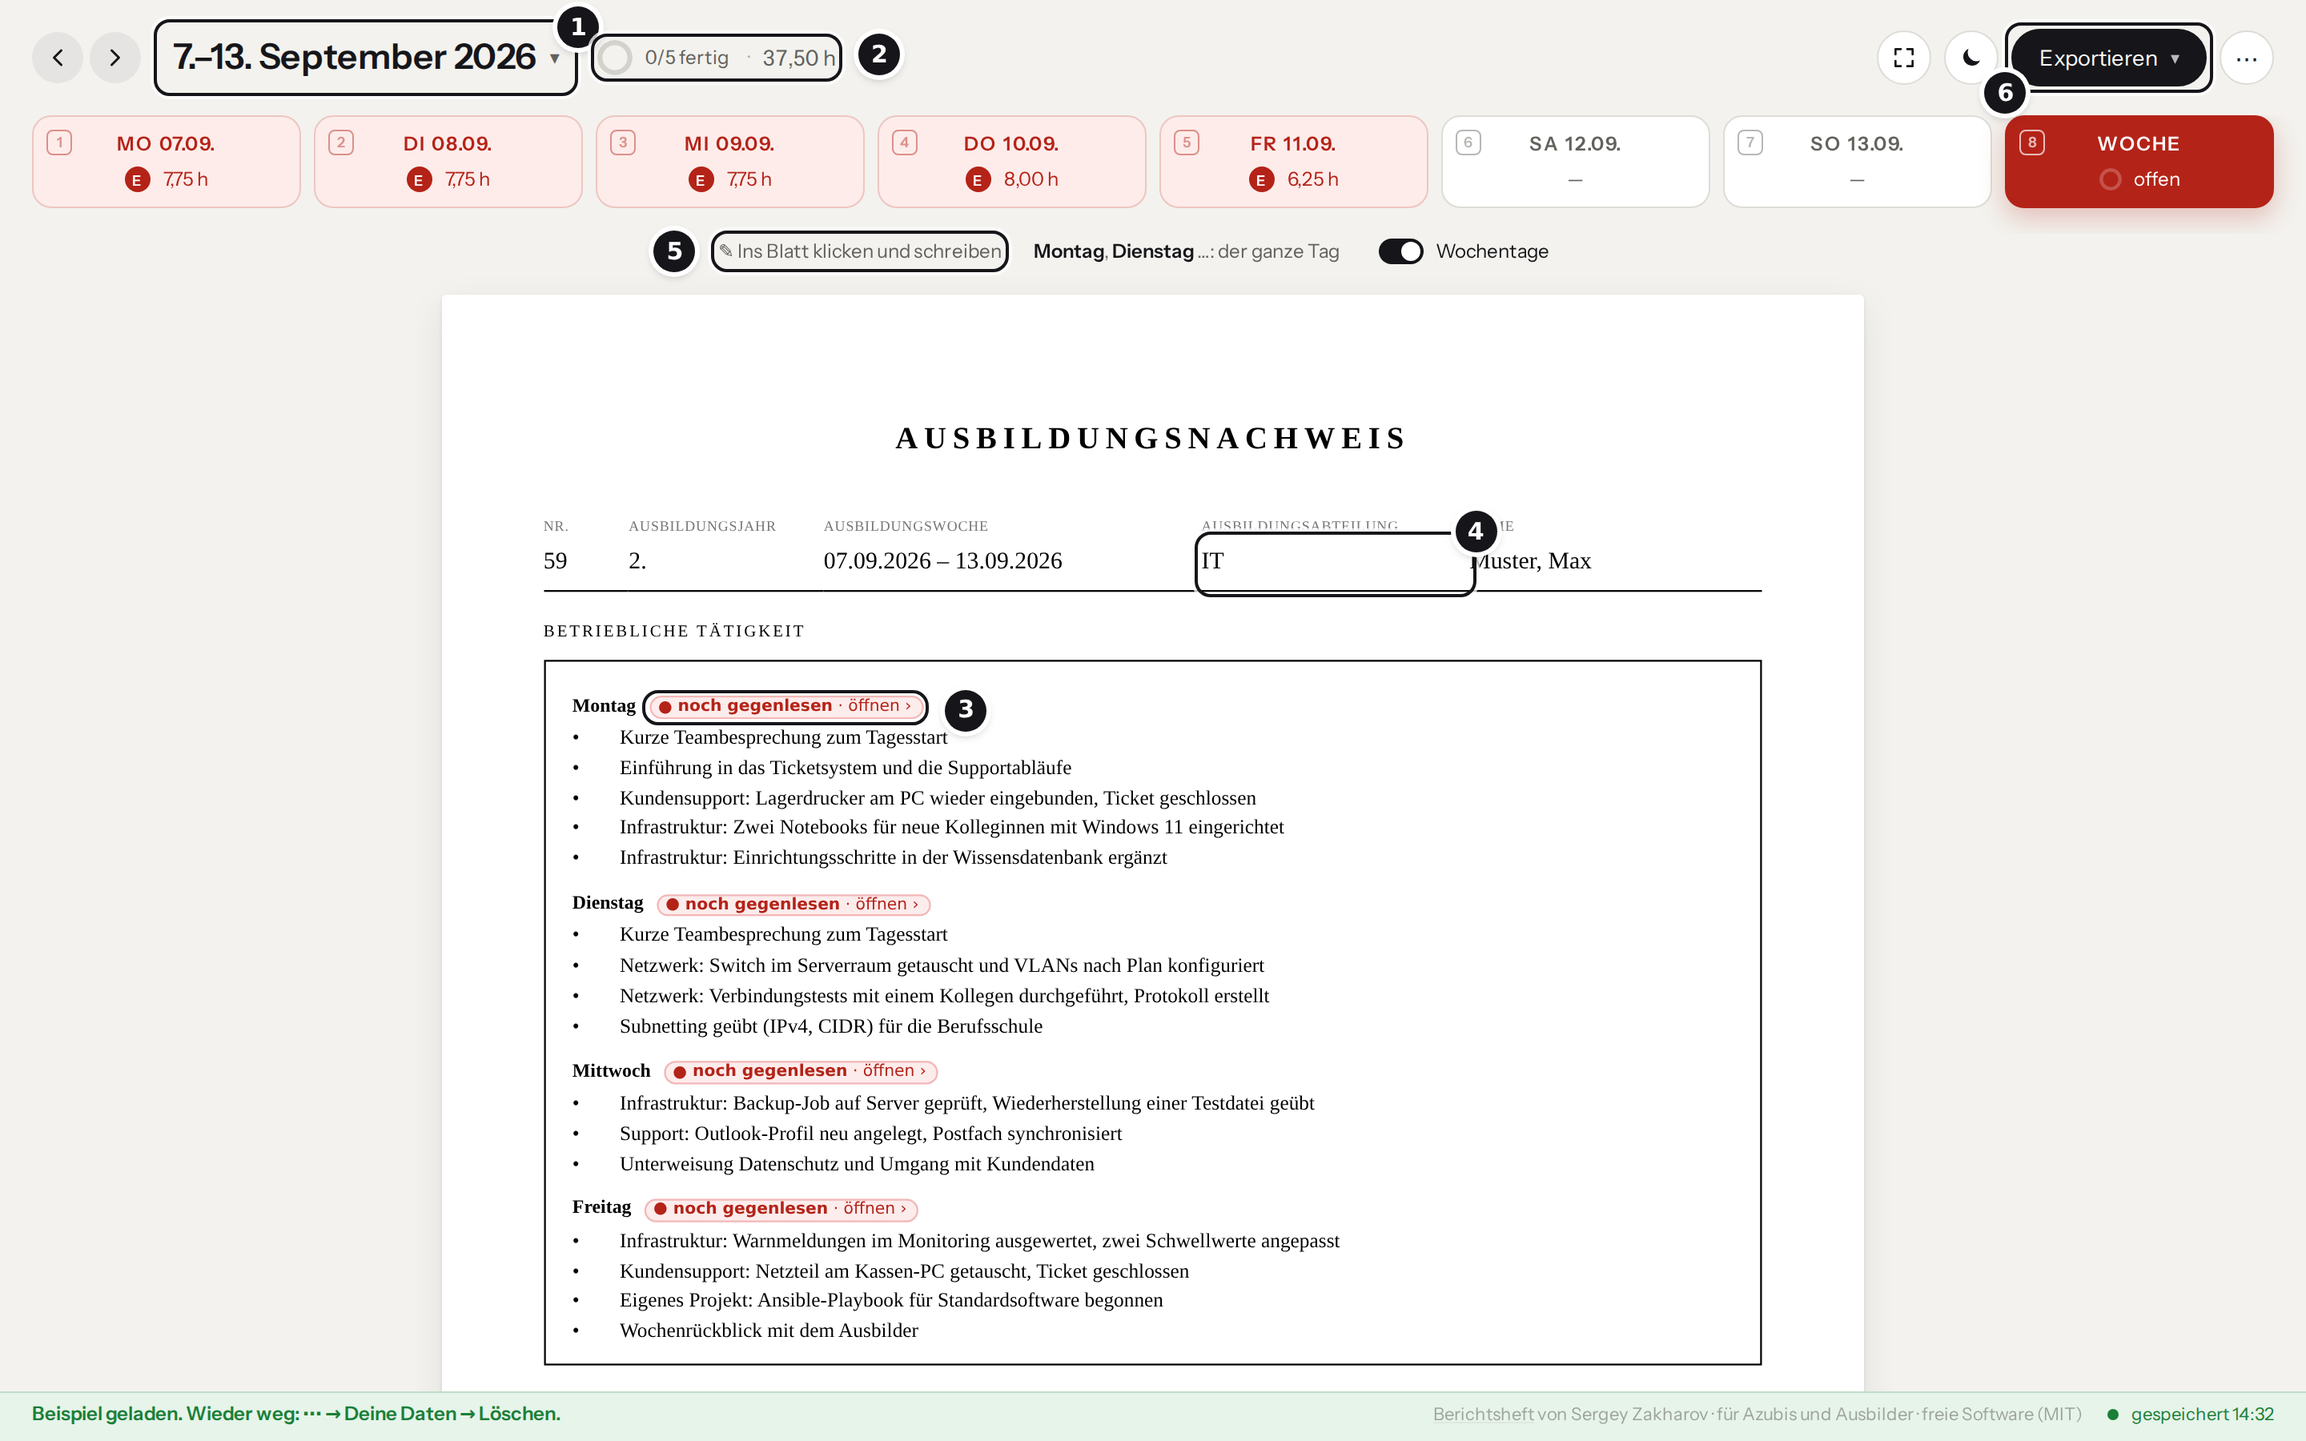
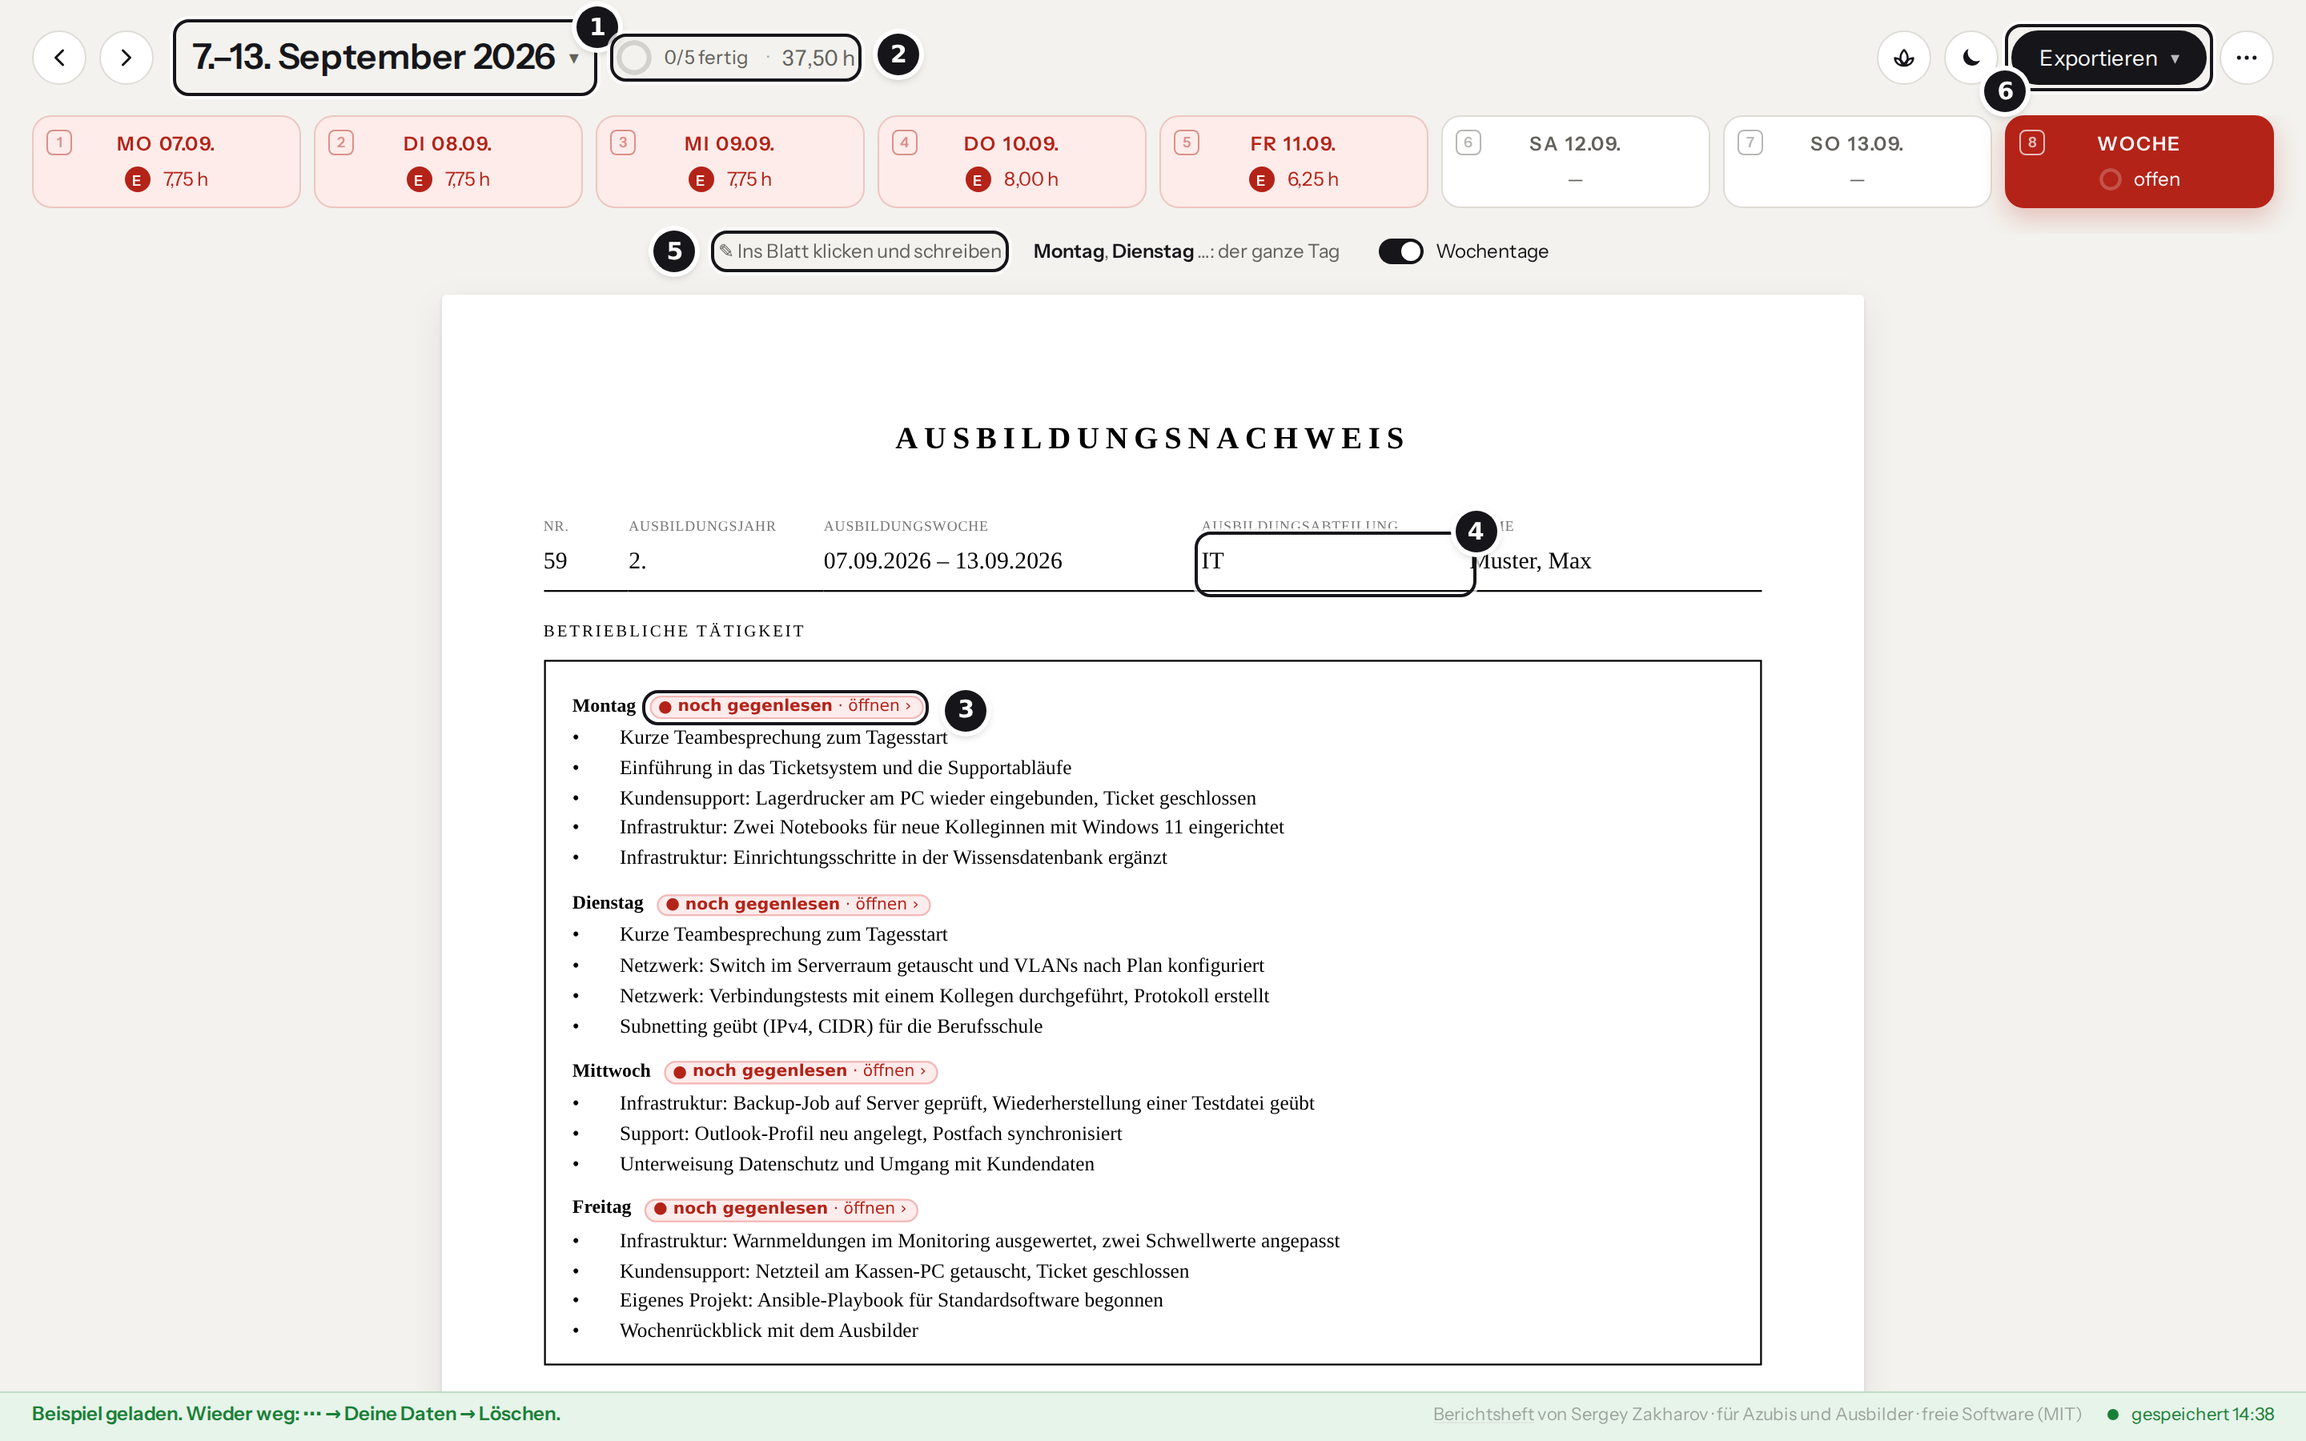
Kopfleiste aus einem Guss, Zen-Knopf mit Lotusblüte
Alle Knöpfe oben sind 34 px hoch, weiß mit Rand und 8 px auseinander:
die Pfeile wie die Knöpfe rechts (vorher grau mit 32 px), „Exportieren“
nicht mehr 36 px hoch, das Menü ⋯ als Zeichnung statt Schriftzeichen. Am
Handy stehen beide Zeilen bündig übereinander.

Das Zen-Symbol ist eine Lotusblüte statt der vier Ecken, die wie Vollbild
aussahen; im Modus ist der Knopf ausgefüllt (aria-pressed).

Changed region(s): [[0.0, 0.0, 0.4062, 0.0622], [0.875, 0.0, 0.9375, 0.0311]]

diff --git a/src/css/leiste.css b/src/css/leiste.css
@@ -15,10 +15,17 @@ body.ohnewoche .leiste::before { content: "Berichtsheft"; font-size: var(--schri
 /* Pfeil am Exportknopf: Er öffnet ein Menü. */
 #btn-export { display: inline-flex; align-items: center; gap: var(--luft-2); }
 #btn-export::after { content: "\25BE"; font-size: var(--schrift-fein); opacity: .7; }
-#btn-mehr { width: 34px; height: 34px; font-size: var(--schrift-gross); }
+/* Alle Knöpfe der Kopfleiste aus einem Guss: 34 px hoch, weiße Fläche mit Rand, 8 px Abstand, links
+   die Pfeile wie rechts die runden Knöpfe. Vorher waren die Pfeile graue Flächen mit 32 px, die
+   anderen umrandet mit 34 px, „Exportieren“ 36 px hoch, und das Menü war ein Schriftzeichen. */
+.leiste .rundknopf { width: 34px; height: 34px; }
+.leiste .rundknopf svg { width: 18px; height: 18px; }
+#btn-mehr svg { fill: currentColor; }
+.leiste #btn-export { height: 34px; padding-top: 0; padding-bottom: 0; }
 /* Hell/dunkel (farbe.js): Mond im Hellen, Sonne im Dunkeln – gezeigt wird, wohin der Knopf schaltet. */
-.farbknopf { width: 34px; height: 34px; color: var(--text); }
-.farbknopf svg { width: 16px; height: 16px; }
+.farbknopf { color: var(--text); }
+/* Der Mond ist voll, die anderen Zeichen Linien: kleiner gesetzt wirkt er gleich groß. */
+.leiste .farbknopf svg { width: 16px; height: 16px; }
 .farbknopf .sonne { display: none; }
 /* Beim Wechsel keine Übergänge einzelner Elemente (farbeOhneUebergaenge() in farbe.js), und die
    Kreisblende statt der eingebauten Überblendung: Beide Bilder liegen fest übereinander, nur das
@@ -35,10 +42,10 @@ body.ohnewoche .leiste::before { content: "Berichtsheft"; font-size: var(--schri
 /* ---------- Zen-Modus (zen.js) ----------
    Übrig bleiben die Tageskarte oder das Blatt und dieser Knopf, oben rechts über allem. Nicht
    ausgeblendet wird eine Warnung in der Fußleiste: Die muss man sehen. */
-.zenknopf { width: 34px; height: 34px; }
-.zenknopf svg { width: 16px; height: 16px; fill: none; stroke: currentColor; stroke-width: 2; stroke-linecap: round; stroke-linejoin: round; }
-.zenknopf .zen-aus, body.zen .zenknopf .zen-an { display: none; }
-body.zen .zenknopf .zen-aus { display: block; }
+/* Eine Lotusblüte; im Modus ist der Knopf ausgefüllt wie ein gedrückter Schalter. */
+.zenknopf svg { fill: none; stroke: currentColor; stroke-width: 1.7; stroke-linejoin: round; }
+.zenknopf[aria-pressed="true"] { background: var(--text); border-color: var(--text); color: var(--flaeche); }
+.zenknopf[aria-pressed="true"]:hover:not(:disabled) { background: var(--voll-hover); border-color: var(--voll-hover); }
 body.ohnewoche .zenknopf { display: none; }
 body.zen .leiste {
   position: fixed; top: var(--luft-4); right: var(--luft-5); z-index: 30;
@@ -77,8 +84,8 @@ body.zen .tagpanel.frei { width: 100%; max-width: 880px; margin: 0 auto; }
 }
 
 /* ---------- Wochenbalken: Blättern, Woche, Stand ----------
-   Am Rechner ist die Woche der Titel der Seite: groß und ohne Rahmen, davor die Pfeile als leise
-   Kreise, dahinter der Stand in Grau. Vorher standen vier umrandete Formen nebeneinander, und die
+   Am Rechner ist die Woche der Titel der Seite: groß und ohne Rahmen, davor die Pfeile in denselben
+   runden Knöpfen wie rechts die Aktionen, dahinter der Stand in Grau. Vorher standen vier umrandete Formen nebeneinander, und die
    Summe sah aus wie ein Knopf. Am Handy und beim Ausbilder bleibt die Woche ein Knopf (handy.css). */
 .wochenbalken { flex: 0 1 auto; min-width: 0; display: flex; align-items: center; }
 .wochenschalter { display: flex; align-items: center; gap: var(--luft-1); flex: 1 1 auto; min-width: 0; }
@@ -86,6 +93,10 @@ body.zen .tagpanel.frei { width: 100%; max-width: 880px; margin: 0 auto; }
    Pfeile als Knöpfe erkennbar sind, ohne sich vorzudrängen. */
 .wochenschalter .rundknopf, .monatszeile .rundknopf { width: 32px; height: 32px; border: none; background: var(--hauch); }
 .wochenschalter .rundknopf:hover:not(:disabled), .monatszeile .rundknopf:hover:not(:disabled) { background: var(--band); }
+/* In der Kopfleiste wie die Knöpfe rechts (oben); die Fläche bleibt dem Kalender und dem Ausbilder. */
+.leiste .wochenschalter { gap: var(--luft-2); }
+.leiste .wochenschalter .rundknopf { width: 34px; height: 34px; border: 1px solid var(--linie); background: var(--flaeche); }
+.leiste .wochenschalter .rundknopf:hover:not(:disabled) { background: var(--band); border-color: var(--linie-fest); }
 .wochenschalter .rundknopf svg, .monatszeile .rundknopf svg {
   width: 18px; height: 18px; fill: none; stroke: currentColor; stroke-width: 2;
   stroke-linecap: round; stroke-linejoin: round;

diff --git a/src/index.html b/src/index.html
@@ -34,10 +34,9 @@
   <div class="schub">
     <!-- Nur mit Berichtsheft-Server: Anmelden bzw. angemeldete Person (src/js/konto/konto.js). -->
     <div class="konto" id="konto" hidden></div>
-    <!-- Zen-Modus (zen.js): nur der Arbeitsbereich. Im Modus bleibt allein dieser Knopf oben rechts. -->
+    <!-- Zen-Modus (zen.js): nur der Arbeitsbereich. Im Modus bleibt allein dieser Knopf oben rechts, ausgefüllt. -->
     <button type="button" class="rundknopf zenknopf" id="btn-zen" aria-label="Zen-Modus" aria-pressed="false" title="Zen-Modus: nur schreiben">
-      <svg class="zen-an" viewBox="0 0 24 24" aria-hidden="true"><path d="M4 9V4h5M15 4h5v5M20 15v5h-5M9 20H4v-5"/></svg>
-      <svg class="zen-aus" viewBox="0 0 24 24" aria-hidden="true"><path d="M9 4v5H4M20 9h-5V4M15 20v-5h5M4 15h5v5"/></svg>
+      <svg viewBox="0 0 24 24" aria-hidden="true"><g transform="translate(0 1)"><path d="M12 4.6c2 1.9 3 4.2 3 6.9s-1 4.6-3 6.1c-2-1.5-3-3.4-3-6.1s1-5 3-6.9z"/><path d="M12 17.6c-.7-2.9-3.4-6-7.6-6.2.3 3.8 3.3 6.2 7.6 6.2zM12 17.6c.7-2.9 3.4-6 7.6-6.2-.3 3.8-3.3 6.2-7.6 6.2z"/></g></svg>
     </button>
     <!-- Hell oder dunkel (farbe.js). Gezeigt wird, wohin der Knopf schaltet: Mond im Hellen, Sonne im Dunkeln. -->
     <button type="button" class="rundknopf farbknopf" id="btn-farbe" aria-label="Dunkler Modus" aria-pressed="false">
@@ -58,7 +57,7 @@
       </div>
     </div>
     <div class="menuehalter">
-      <button type="button" class="rundknopf" id="btn-mehr" aria-label="Menü" aria-haspopup="true" aria-expanded="false">⋯</button>
+      <button type="button" class="rundknopf" id="btn-mehr" aria-label="Menü" aria-haspopup="true" aria-expanded="false"><svg viewBox="0 0 24 24" aria-hidden="true"><circle cx="5.5" cy="12" r="1.7"/><circle cx="12" cy="12" r="1.7"/><circle cx="18.5" cy="12" r="1.7"/></svg></button>
       <!-- Nach Zweck gruppiert: dein Heft, Daten hinein, Sicherung, Hilfe. -->
       <div class="menue" id="menue-mehr" hidden role="menu">
         <button type="button" role="menuitem" id="btn-stamm">Deine Daten</button>

diff --git a/src/css/handy.css b/src/css/handy.css
@@ -26,19 +26,17 @@
   .wochensumme { order: 1; flex: 1 1 auto; min-width: 0; justify-content: space-between; }
   .leiste .schub { order: 2; margin-left: auto; gap: var(--luft-2); }
   .wochenbalken { order: 3; flex: 1 1 100%; }
-  .leiste .schub .knopf { min-width: 0; padding: var(--luft-2) var(--luft-3); font-size: var(--schrift-klein); }
+  .leiste .schub .knopf { min-width: 0; padding: 0 var(--luft-3); font-size: var(--schrift-klein); }
   /* Fast deckend: Über den roten Tagesreitern war das Glas sonst kaum lesbar. */
   .menue { min-width: 210px; background: var(--menue); }
   .menue button { padding: var(--luft-3); font-size: var(--schrift-text); }
 
   .wochenschalter { gap: var(--luft-2); }
-  .wochenschalter .rundknopf { width: 34px; height: 34px; }
   /* Im Quelltext stehen beide Pfeile vor der Woche (für den Titel am Rechner); hier ‹ Woche ›. */
   .wochenschalter #wochenlabel { order: 1; }
   .wochenschalter #woche-vor { order: 2; }
   .wochenknopf { flex: 1 1 auto; padding: 0 var(--luft-3); height: 34px; line-height: 32px; font-size: var(--schrift-klein); }
   .wochensumme { height: 34px; padding: 0 var(--luft-3) 0 var(--luft-2); gap: var(--luft-2); font-size: var(--schrift-klein); }
-  .leiste .schub .farbknopf { width: 34px; height: 34px; }
   /* Zen-Modus: Der Knopf steht allein in einer Zeile über der Karte, nicht über ihr. */
   body.zen .leiste { position: static; padding: var(--luft-3) var(--luft-3) 0; background: none; box-shadow: none; }
   body.zen .zenknopf { box-shadow: none; }

diff --git a/docs/ENTWICKLUNG.md b/docs/ENTWICKLUNG.md
@@ -95,7 +95,7 @@ Die Ordner ordnen nach Aufgabe; für den Build zählt allein die Liste `JS` in `
 | `berufe.js` | Ausbildungsberuf: eigene Liste beim Tippen (nach Bereichen, `BERUFE`), danach die Fachrichtung zum Antippen; gespeichert in `f-beruf` als „Fachinformatiker/in – Systemintegration“ (`berufsfeld()`, `berufTeilen()`) |
 | `zeitraum.js` | Blockunterricht und Schulferien als Marken, Kalender zum Wählen (`zeitraumOeffnen()`), Zusammenlegen überlappender Zeiträume |
 | `farbe.js` | Knopf hell/dunkel in der Kopfleiste; der Wechsel als Kreisblende vom Knopf aus (View Transitions), ohne die Übergänge einzelner Elemente |
-| `zen.js` | Zen-Modus: Der Knopf links neben hell/dunkel setzt `body.zen`; `leiste.css` blendet dann alles außer Tageskarte oder Blatt aus (auch Buchungen, Herkunftsfarben, die Zeile über dem Blatt und die Fußleiste, außer einer Warnung). Esc beendet ihn (`bedienung.js`, erst nach einem offenen Fenster), ohne Woche endet er von selbst. Nicht gespeichert |
+| `zen.js` | Zen-Modus: Der Knopf mit der Lotusblüte links neben hell/dunkel setzt `body.zen` und ist dann ausgefüllt (`aria-pressed`); `leiste.css` blendet dann alles außer Tageskarte oder Blatt aus (auch Buchungen, Herkunftsfarben, die Zeile über dem Blatt und die Fußleiste, außer einer Warnung). Esc beendet ihn (`bedienung.js`, erst nach einem offenen Fenster), ohne Woche endet er von selbst. Nicht gespeichert |
 | `rundgang.js` | Rundgang der Ausbilder beim ersten Start und über **?**; Azubis bekommen stattdessen die Einrichtung |
 | `einrichtung.js` | Einrichtung beim ersten Start: die Angaben fürs Wochenblatt in sechs Schritten, jede Eingabe geht sofort in das Feld von „Deine Daten“ (`data-feld`) |
 | `hinweise.js` | Hinweis über den Reitern: Ergebnis des letzten Imports mit „Spalten prüfen“ (`importKarte`, bleibt bis „Passt“ oder ×), Tipp fürs iPhone, fällige Sicherung, was beim Öffnen fehlt (`offeneWochen()`); am Handy jeweils die kurze Fassung (`kurz`) |
@@ -121,10 +121,11 @@ Die Ordner ordnen nach Aufgabe; für den Build zählt allein die Liste `JS` in `
 Reihenfolge wie in der Liste `CSS` in `build.js`: `basis.css` (Farben als Variablen, der dunkle
 Modus tauscht sie unter `prefers-color-scheme: dark`; Schrift, Grundgerüst),
 `leiste.css` (Kopfleiste: am Rechner die Woche als Titel mit `langSpanne()`, am Handy und beim
-Ausbilder als Knopf mit `kurzSpanne()`; Wochenbalken, Reiter), `tag.css` (Tagbereich, Sektionen, Wochenansicht,
+Ausbilder als Knopf mit `kurzSpanne()`; alle Knöpfe darin 34 px hoch, weiß mit Rand, 8 px Abstand,
+die Pfeile wie die Knöpfe rechts; Wochenbalken, Reiter, Zen-Modus), `tag.css` (Tagbereich, Sektionen, Wochenansicht,
 Eingaben, Meldungen), `dialoge.css` (Monatsraster, „Deine Daten“, Zuordnung, Rundgang),
-`handy.css` (alle `@media`-Regeln für Handy und Tablet; dort stehen die Tagesreiter in einer Zeile
-mit der Woche breit darunter, und im Kopf der Tageskarte `.tagkarte` steht das Datum allein, darunter Art, Stunden und „Fertig“ in einer Zeile, damit das Schreibfeld auch mit
+`handy.css` (alle `@media`-Regeln für Handy und Tablet; dort stehen die Tage als Kalenderleiste in einer
+Zeile, die Woche als Pille daneben, und im Kopf der Tageskarte `.tagkarte` steht das Datum allein, darunter Art, Stunden und „Fertig“ in einer Zeile, damit das Schreibfeld auch mit
 offener Tastatur Platz hat; eine Fußleiste gibt es dort nicht, die Meldung schwebt als Karte über dem Inhalt, ohne Speicherstand und Signatur; die Regeln greifen auch beim Drucken, denn A4 ist schmaler als 820 px,
 also dort keine Klassen aus dem Blatt wie `.tagkopf`, `.kasten` oder `.tagestabelle` verwenden),
 `ausbilder.css` (Konto und Ausbilderansicht),

diff --git a/CHANGELOG.md b/CHANGELOG.md
@@ -25,6 +25,10 @@ Werkzeug arbeitet. Was im Browser gespeichert ist, bleibt ladbar.
   das Kürzel. Die Farbe des Kreises zeigt den Stand (rot gegenlesen, grün fertig), der gewählte Tag
   ist ausgefüllt, „Woche“ steht als eigener Knopf daneben. Vorher war ein leeres Wochenende
   schmaler und sprang angetippt auf volle Breite.
+- **Kopfleiste aus einem Guss:** Alle Knöpfe oben sind 34 px hoch, weiß mit Rand und stehen 8 px
+  auseinander. Die Pfeile zum Blättern sehen aus wie die Knöpfe rechts, „Exportieren“ ist nicht mehr
+  höher als der Rest, das Menü ⋯ ist ein Zeichen statt eines Schriftzeichens. Am Handy stehen beide
+  Zeilen bündig übereinander.
 - Am Handy heißt der Knopf „Exportieren“ jetzt „Export“, damit neben dem Zen-Knopf die Kopfleiste
   in zwei Zeilen bleibt.
 

diff --git a/docs/START.md b/docs/START.md
@@ -150,7 +150,7 @@ Im Startbild: **1** Zeiterfassung laden (Schritt 4), **2** selbst schreiben, ohn
   „Dienstag“ davor, schalte im Reiter **Woche** über dem Blatt **Wochentage** aus. Du schreibst
   weiter je Tag; im Blatt steht jede Zeile einmal, freie Tage als eine Zeile am Ende („Urlaub am
   Mittwoch“). Wieder einschalten geht jederzeit.
-- **Zen-Modus:** Der Knopf mit den vier Ecken neben hell/dunkel blendet alles aus außer dem, woran
+- **Zen-Modus:** Der Knopf mit der Lotusblüte neben hell/dunkel blendet alles aus außer dem, woran
   du schreibst: am Tag nur die Karte mit **Fertig**, in der Woche nur das Blatt. Beenden mit
   demselben Knopf oben rechts oder mit `Esc`.
 - **Tastatur:** `1`–`7` wählt den Tag, `8` den Reiter **Woche** (die Ziffer steht klein in der Ecke
